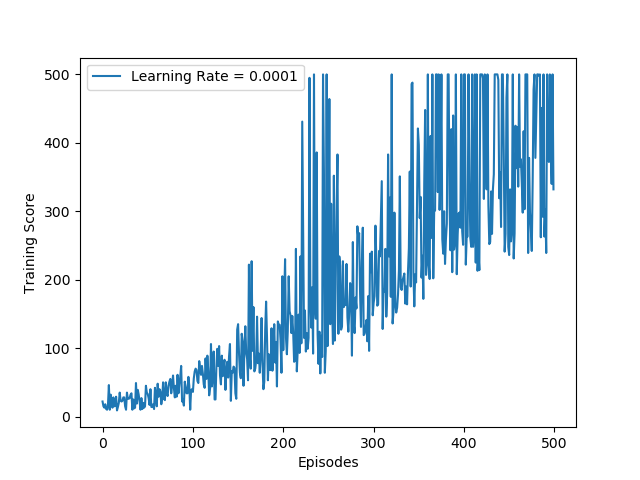
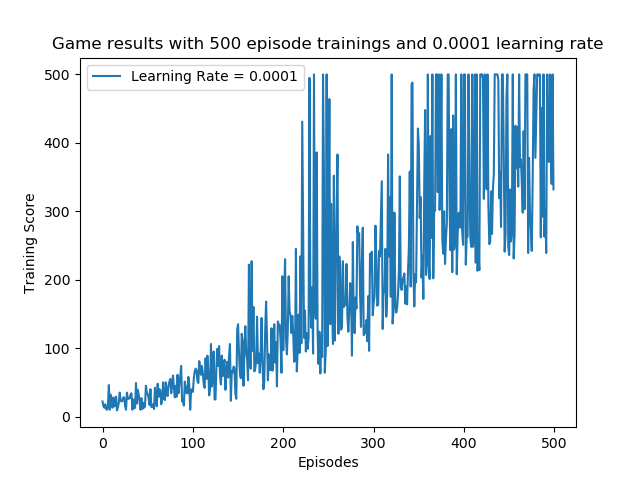
add graphs

Changed region(s): [[0.0938, 0.0625, 0.9375, 0.125]]

diff --git a/media/plot.py b/media/plot.py
@@ -5,13 +5,16 @@ import matplotlib.pyplot as plt
 def plot_single(games, learning_rate):
 
     data = np.genfromtxt(f'media/csv/{games}-games-lr-{learning_rate}.csv')
-
+    plt.figure()
     plt.plot(data)
     plt.xlabel('Episodes')
     plt.ylabel('Training Score')
     plt.legend([f'Learning Rate = {learning_rate}'])
+    plt.title(f'Game results with {games} episode trainings and {learning_rate} learning rate')
     #plt.show()
     plt.savefig(f'media/{games}-games-lr-{learning_rate}.png')
 
 
-plot_single(500,0.001)
+for episode in [10, 20, 50, 100, 200, 500]:
+    for lr in [0.001, 0.0001]:
+        plot_single(episode,lr)
